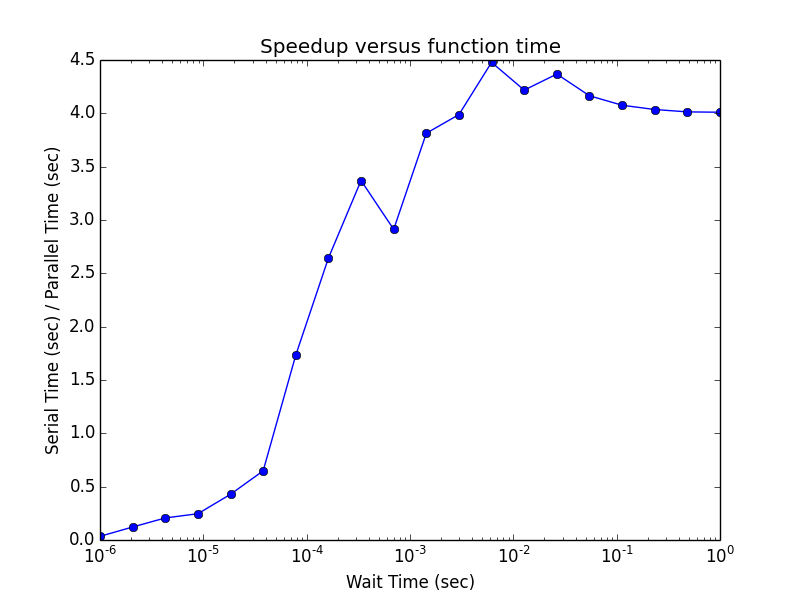
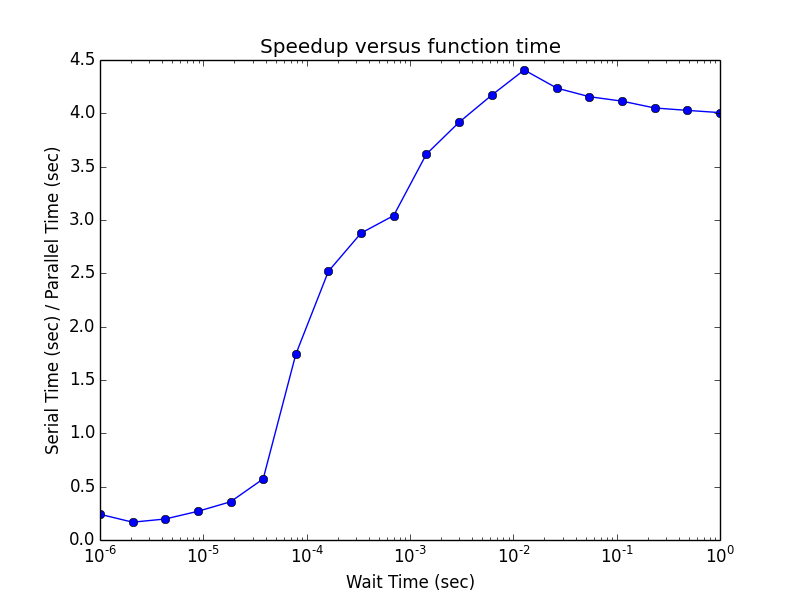
P5

diff --git a/HW0/P6/P6B.py b/HW0/P6/P6B.py
@@ -21,21 +21,19 @@ if __name__ == '__main__':
     wait_time = np.logspace(-6, 0, num=20)
     # print wait_time
     for t in wait_time:
-        print "Current wait time: ", t
         # Compute jobs serially and in parallel
         # Use time.time() to compute the elapsed time for each
         serialTime = 1
         parallelTime = 1
+        # Serial code section
         startSerialTime = time.time()
-        # Insert serial code here
         for i in range(N):
             burnTime(t)
         serialTime = time.time() - startSerialTime
-
-        startParellelTime = time.time()
-        # Insert parellel code here
+        # Parallel Code section
+        startParallelTime = time.time()
         pool.map(burnTime, N*[t])
-        parallelTime = time.time() - startParellelTime
+        parallelTime = time.time() - startParallelTime
         # Compute the ratio of these times
         ratio.append(serialTime/parallelTime)
 

diff --git a/HW0/P5/P5.py b/HW0/P5/P5.py
@@ -1,0 +1,10 @@
+import numpy as np
+import matplotlib.pyplot as plt
+N = np.array(range(1, 1000, 70))
+logs = np.ceil(np.log2(N))
+plt.figure(1)
+plt.scatter(N, logs, c='red', label='Infinite Employees')
+plt.scatter(N, N-1, c='blue', label='One Employee')
+plt.legend()
+plt.show()
+
